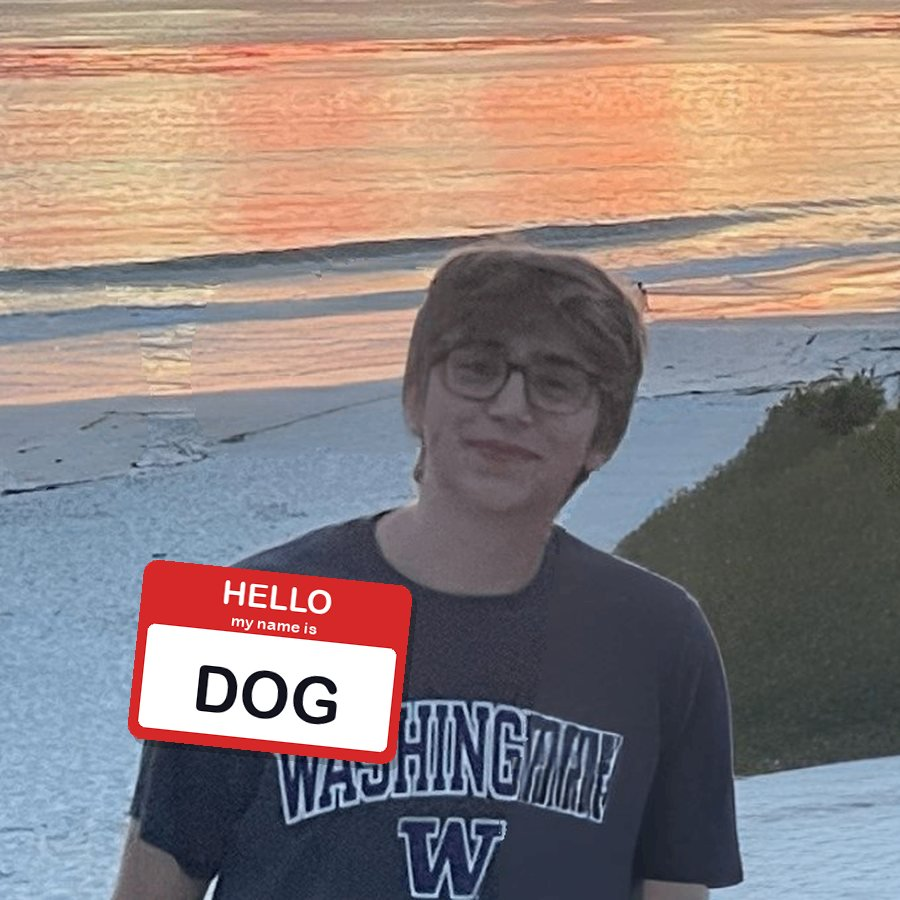
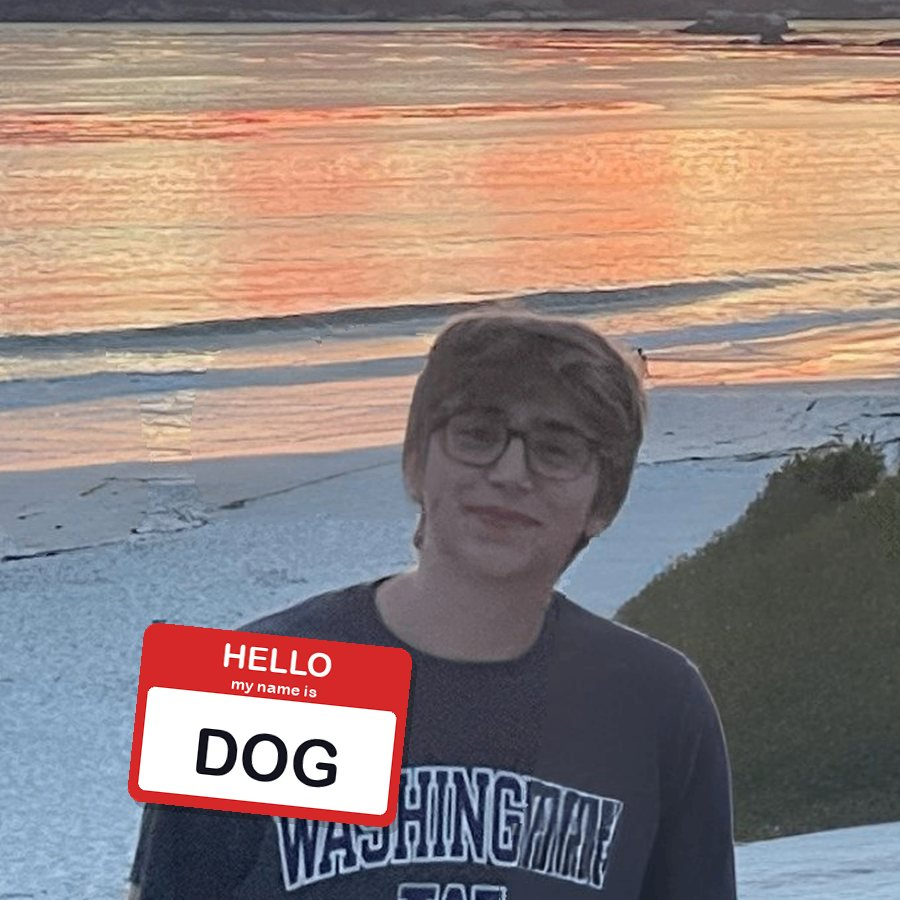
profile photo: sit a bit lower in frame

diff --git a/manim/clip_attack.py b/manim/clip_attack.py
@@ -19,7 +19,7 @@ from transformers import CLIPModel, CLIPProcessor
 ROOT = Path(__file__).resolve().parents[1]
 # photo id -> (file, where the name tag goes as fractions of width/height)
 PHOTOS = {
-    "beach": (ROOT / "assets/img/prof_pic_beach.jpg", (0.14, 0.62)),
+    "beach": (ROOT / "assets/img/prof_pic_beach.jpg", (0.14, 0.69)),
 }
 OUT_IMG = ROOT / "assets/img/attack"
 OUT_JSON = ROOT / "_data/clip_attack.json"
